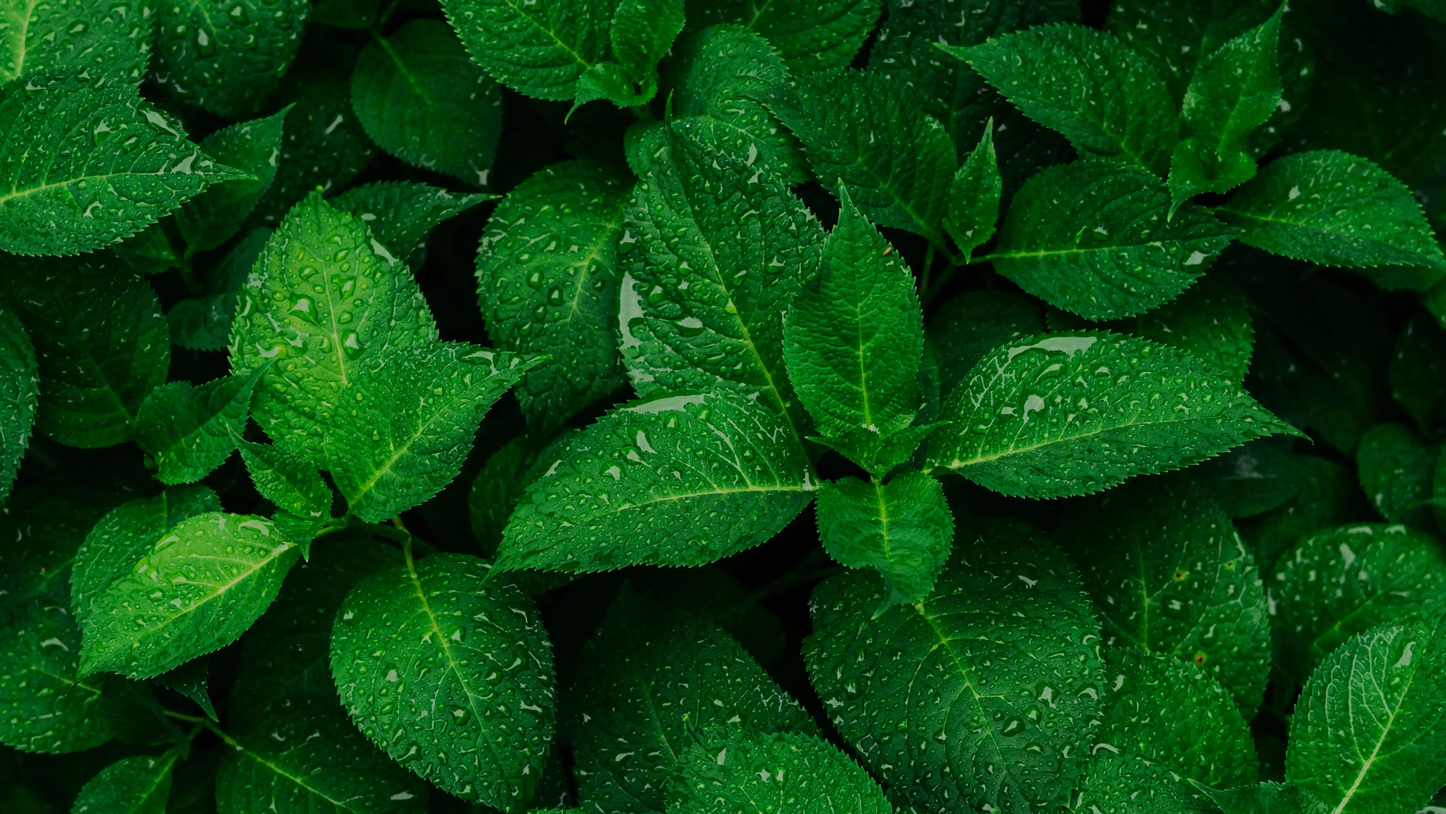
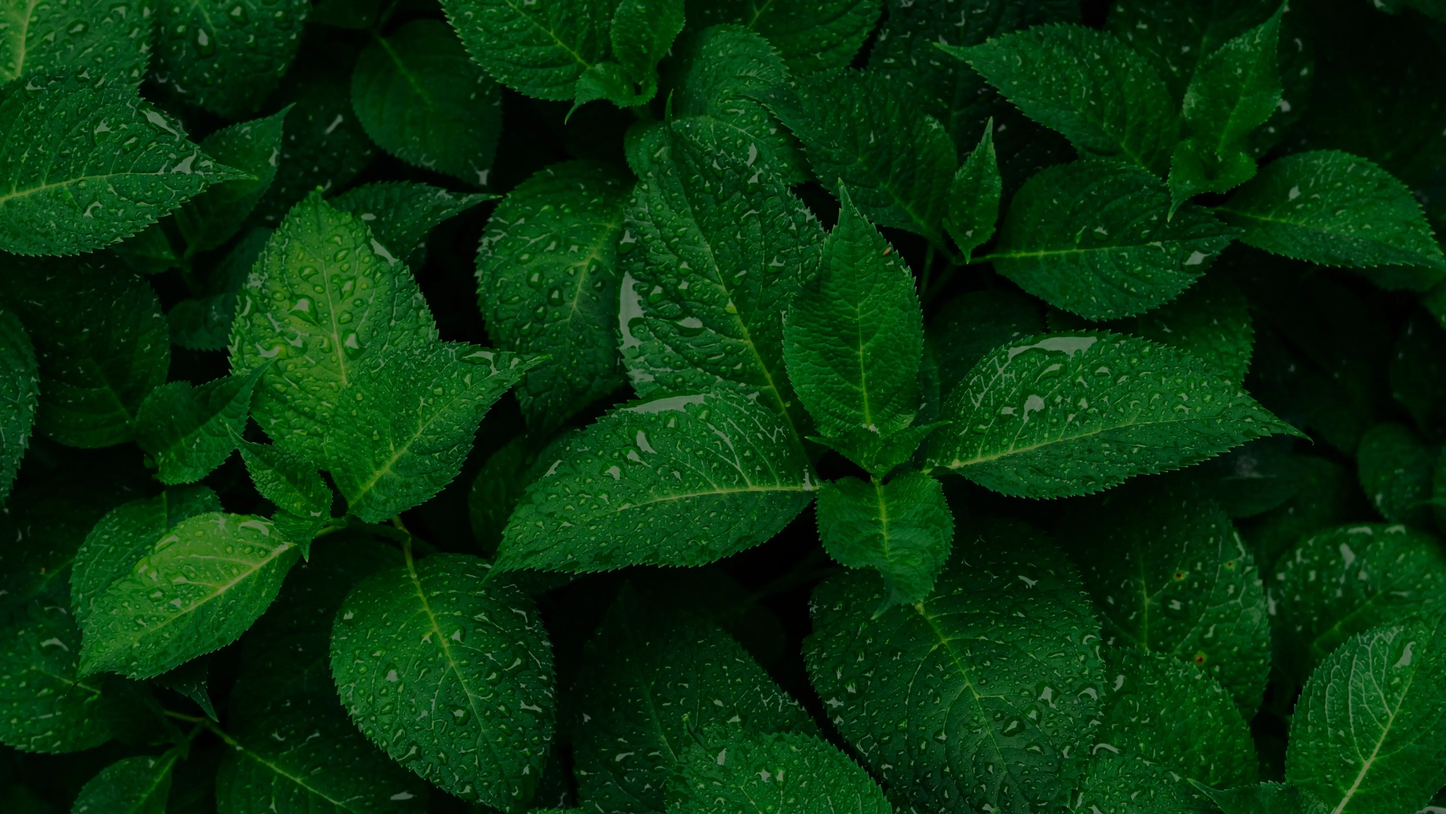
UI go brr

diff --git a/Webpage/templates/result.html b/Webpage/templates/result.html
@@ -79,7 +79,7 @@
                     </tr>
 
                     <tr>
-                        <td class="main-weather-details"> {{ predictions[0].precip | round(3) }} mm</td>
+                        <td class="main-weather-details"> {{ predictions[0].precip | round(1) }} mm</td>
                         <td class="main-weather-details"> {{ predictions[0].precipcover | int }} %</td>
                     </tr>
 

diff --git a/Webpage/static/results.css b/Webpage/static/results.css
@@ -211,9 +211,8 @@ margin-bottom: 50px;
 
 .main-results-section {
     height: 70vh;
-    display: flex;
-    flex-direction: column;
-    justify-content: space-around;
+  
+    padding: 70px 20px 0px 20px;
     margin-bottom: 50px;    
 }
 

diff --git a/Webpage/app.py b/Webpage/app.py
@@ -132,8 +132,8 @@ def warning_check(prediction_dict):
     # Check precipitation warnings
     precip = prediction_dict.get("precip")
     if precip is not None and precip < 0:
-        precip = 0  # Ensure precip is not negative
-        prediction_dict["precip"] = 0
+        precip = 0.000  # Ensure precip is not negative
+        prediction_dict["precip"] = 0.000
     if precip > 20:
         warnings.append("Severe Flooding possible")
       
@@ -274,7 +274,7 @@ def predict(date,location):
 
             # Set precip to 0 if negative
             if week_prediction_dict.get("precip") is not None and week_prediction_dict["precip"] < 0:
-                week_prediction_dict["precip"] = 0
+                week_prediction_dict["precip"] = 0.000
 
             warnings = warning_check(week_prediction_dict)
             week_warnings.append(", ".join(warnings))
